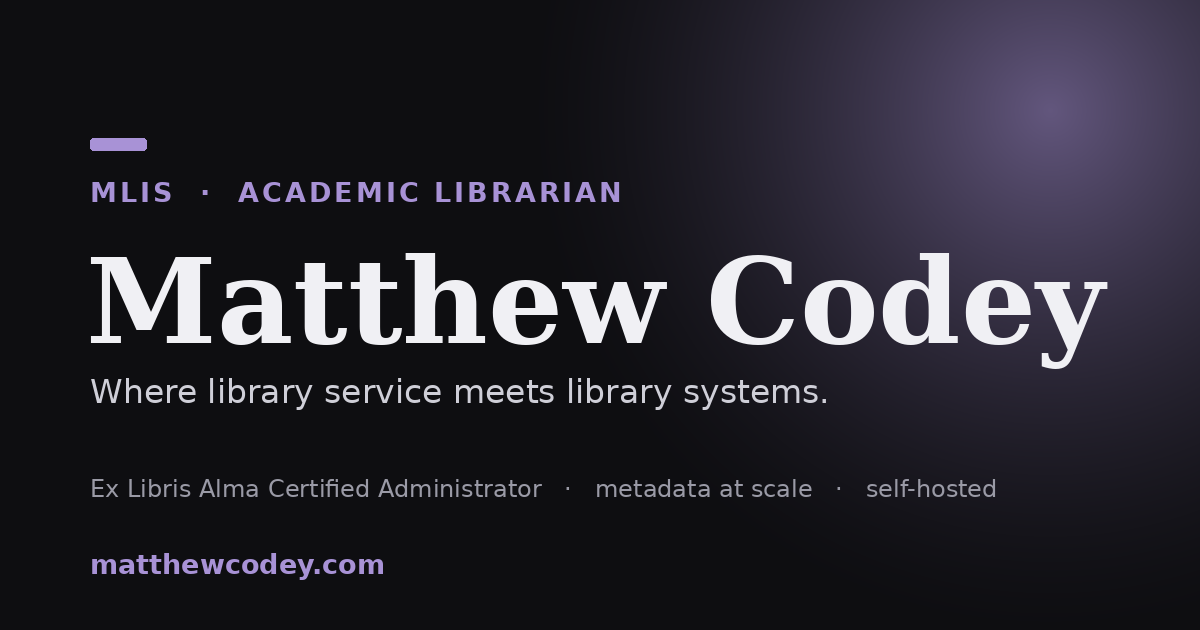
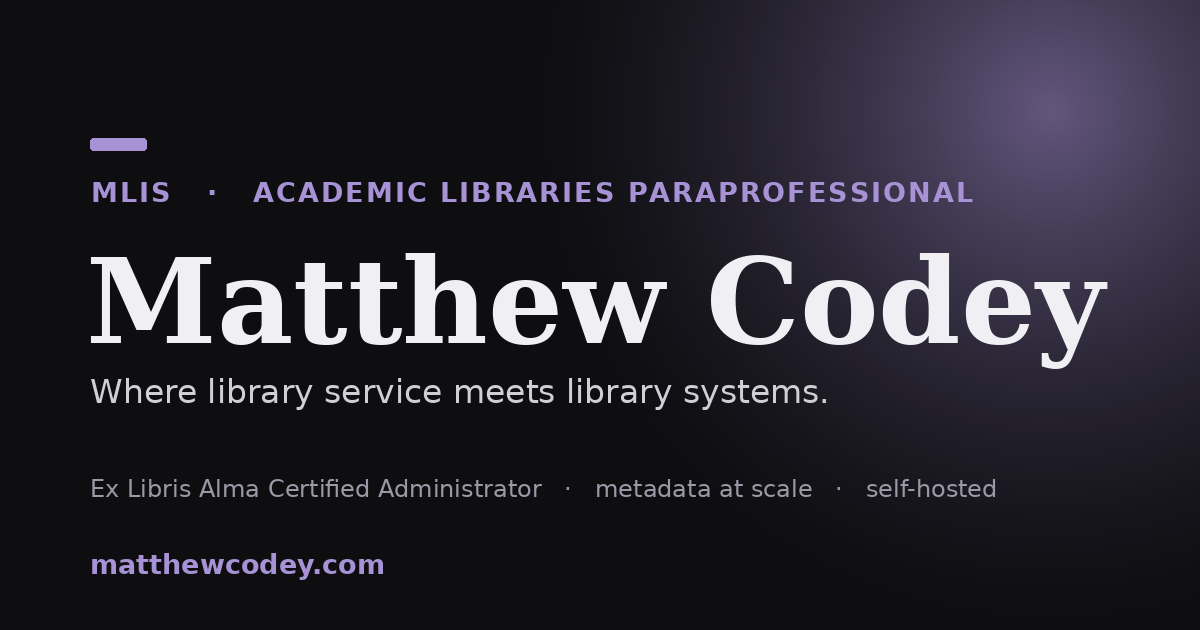
Describe Matthew as an academic libraries paraprofessional, since 2006
The site called him an academic librarian with fifteen-plus years. He is
an academic libraries paraprofessional (with an MLIS), in academic
libraries since 2006 as a student worker and full-time staff since 2007.

Updated everywhere the claim appeared: the homepage title, eyebrow,
lede, JSON-LD and "at a glance" cell (now "Since 2006"); the default
meta and social descriptions; the contact and resume descriptions; the
resume's header line and summary; the README; and two lines on the
poster page. The Open Graph image's title line is redrawn in the same
font, size, tracking and colour; the rest of the image is untouched.

The CV PDF still says "Academic Librarian" and "more than fifteen
years"; it needs re-exporting from its source document.

Claude-Session: https://claude.ai/code/session_01FdrsMmaTAM84MyhPcpEWEV

Changed region(s): [[0.4625, 0.2714, 0.8017, 0.3317], [0.185, 0.2714, 0.4317, 0.3317], [0.0617, 0.3016, 0.1542, 0.3317]]

diff --git a/templates/index.html b/templates/index.html
@@ -1,5 +1,5 @@
 {% extends "base.html" %}
-{% block fulltitle %}Matthew Codey — Academic Librarian{% endblock %}
+{% block fulltitle %}Matthew Codey — Academic Libraries Paraprofessional{% endblock %}
 {% block head %}
 <script type="application/ld+json">
 {
@@ -7,7 +7,7 @@
   "@type": "Person",
   "name": "Matthew Codey",
   "url": "https://matthewcodey.com/",
-  "description": "MLIS academic librarian working at the seam of library service and library systems.",
+  "description": "MLIS-holding academic libraries paraprofessional working at the seam of library service and library systems.",
   "worksFor": {"@type": "Organization", "name": "USC Libraries"},
   "sameAs": [
     "https://libraries.usc.edu/person/matthew-codey",
@@ -19,9 +19,9 @@
 {% block content %}
 <section class="hero">
   <div class="wrap">
-    <div class="eyebrow">MLIS · Academic Librarian</div>
+    <div class="eyebrow">MLIS · Academic Libraries Paraprofessional</div>
     <h1 class="big">Where library service<br>meets library systems.</h1>
-    <p class="lede">I'm an academic librarian with fifteen-plus years in university libraries, pairing <strong>hands-on library-systems expertise</strong> — Ex Libris Alma &amp; Primo, metadata at scale, discovery-service enhancement — with a user-centered approach to reference and instruction, and a working knowledge of the code underneath it all.</p>
+    <p class="lede">I'm an academic libraries paraprofessional with nearly twenty years in university libraries, pairing <strong>hands-on library-systems expertise</strong> — Ex Libris Alma &amp; Primo, metadata at scale, discovery-service enhancement — with a user-centered approach to reference and instruction, and a working knowledge of the code underneath it all.</p>
     <div class="cta-row">
       <a class="btn btn-primary" href="{{ url_for('projects') }}"><span>View Projects <span aria-hidden="true">→</span></span></a>
       <a class="btn btn-ghost" href="{{ url_for('resume') }}">Resume</a>
@@ -33,7 +33,7 @@
 <div class="glance">
   <div class="wrap">
     <div class="glance-grid">
-      <div class="glance-cell"><div class="glance-num">15+</div><div class="glance-lbl">Years in academic libraries</div></div>
+      <div class="glance-cell"><div class="glance-num">Since 2006</div><div class="glance-lbl">In academic libraries, student worker to full-time staff</div></div>
       <div class="glance-cell"><div class="glance-num">Alma</div><div class="glance-lbl">Ex Libris Certified Administrator</div></div>
       <div class="glance-cell"><div class="glance-num">MLIS</div><div class="glance-lbl">Web Programming &amp; Information Architecture</div></div>
     </div>

diff --git a/templates/base.html b/templates/base.html
@@ -3,7 +3,7 @@
 <head>
   <meta charset="UTF-8">
   <meta name="viewport" content="width=device-width, initial-scale=1">
-  <meta name="description" content="{{ page_description or "Matthew Codey — MLIS academic librarian working at the seam of library service and library systems." }}">
+  <meta name="description" content="{{ page_description or "Matthew Codey — MLIS-holding academic libraries paraprofessional working at the seam of library service and library systems." }}">
   <link rel="preconnect" href="https://fonts.googleapis.com">
   <link rel="preconnect" href="https://fonts.gstatic.com" crossorigin>
   <link href="https://fonts.googleapis.com/css2?family=Fraunces:opsz,wght@9..144,400;9..144,500;9..144,600&family=Inter:wght@400;500;600&display=swap" rel="stylesheet">
@@ -17,13 +17,13 @@
   <meta property="og:type" content="website">
   <meta property="og:site_name" content="Matthew Codey">
   <meta property="og:title" content="{{ self.fulltitle() }}">
-  <meta property="og:description" content="{{ page_description or "MLIS academic librarian working at the seam of library service and library systems." }}">
+  <meta property="og:description" content="{{ page_description or "MLIS-holding academic libraries paraprofessional working at the seam of library service and library systems." }}">
   <meta property="og:url" content="https://matthewcodey.com{{ request.path }}">
   {% block canonical %}<link rel="canonical" href="https://matthewcodey.com{{ request.path }}">{% endblock %}
   <meta property="og:image" content="https://matthewcodey.com{{ url_for('static', filename='og-image.png') }}">
   <meta name="twitter:card" content="summary_large_image">
   <meta name="twitter:title" content="{{ self.fulltitle() }}">
-  <meta name="twitter:description" content="{{ page_description or "MLIS academic librarian working at the seam of library service and library systems." }}">
+  <meta name="twitter:description" content="{{ page_description or "MLIS-holding academic libraries paraprofessional working at the seam of library service and library systems." }}">
   <meta name="twitter:image" content="https://matthewcodey.com{{ url_for('static', filename='og-image.png') }}">
 
   <title>{% block fulltitle %}{% block title %}Home{% endblock %} · Matthew Codey{% endblock %}</title>

diff --git a/templates/resume.html b/templates/resume.html
@@ -1,6 +1,6 @@
 {% extends "base.html" %}
 {% block title %}Resume{% endblock %}
-{% set page_description = "Resume of Matthew Codey, MLIS: more than fifteen years in academic libraries at USC and UC San Diego, and an Ex Libris Alma Certified Administrator." %}
+{% set page_description = "Resume of Matthew Codey, MLIS: nearly twenty years in academic libraries at USC and UC San Diego, and an Ex Libris Alma Certified Administrator." %}
 {% block content %}
 <section class="block">
   <div class="wrap">
@@ -8,14 +8,14 @@
       <div>
         <div class="kicker">Curriculum vitae</div>
         <h1 class="title">Matthew Codey</h1>
-        <div class="muted-line">MLIS · Academic Librarian · Los Angeles, CA</div>
+        <div class="muted-line">MLIS · Academic Libraries Paraprofessional · Los Angeles, CA</div>
       </div>
       <a class="btn btn-ghost" href="{{ url_for('static', filename='cv/Matthew_Codey_CV.pdf') }}" download><span>Download PDF <span aria-hidden="true">↓</span></span></a>
     </div>
 
     <div class="resume-sec">
       <h2>Professional summary</h2>
-      <p class="muted">MLIS professional with more than fifteen years in academic libraries, pairing hands-on library-systems expertise with a user-centered, equity-minded approach to reference and instruction. Ex Libris Alma Certified Administrator experienced in large-scale metadata management, discovery-service enhancement, and staff supervision, with a record of collaborative service and governance leadership.</p>
+      <p class="muted">Academic libraries paraprofessional, with an MLIS and nearly twenty years in academic libraries, pairing hands-on library-systems expertise with a user-centered, equity-minded approach to reference and instruction. Ex Libris Alma Certified Administrator experienced in large-scale metadata management, discovery-service enhancement, and staff supervision, with a record of collaborative service and governance leadership.</p>
     </div>
 
     <div class="resume-sec">

diff --git a/templates/poster.html b/templates/poster.html
@@ -87,7 +87,7 @@
 
     <article class="panel">
       <h3>Built with an AI coding assistant; runs without one</h3>
-      <p>The result is the <strong>MARC Holdings Workbench</strong>, a Python application. It uses no AI when it runs: no model, no network calls, no API key, and nothing leaves the machine. The same file converts the same way every time. The AI was in how it was built: a librarian working with an AI coding assistant, release by release.</p>
+      <p>The result is the <strong>MARC Holdings Workbench</strong>, a Python application. It uses no AI when it runs: no model, no network calls, no API key, and nothing leaves the machine. The same file converts the same way every time. The AI was in how it was built: a library paraprofessional, not a developer, working with an AI coding assistant, release by release.</p>
     </article>
 
     <article class="panel">
@@ -171,7 +171,7 @@
 
     <article class="panel">
       <h3>The human in the loop</h3>
-      <p>The AI writes the code; the librarian decides what "correct" means. Two bugs from October were found by the cataloguer, not by the tests:</p>
+      <p>The AI writes the code; the cataloguer decides what "correct" means. Two bugs from October were found by the cataloguer, not by the tests:</p>
       <ul class="bugs">
         <li>In <code>v. 58 Suppl. (Sep 2003)</code>, confirming the pattern it arrived with wrote the volume and date and dropped "Suppl." without a word. Found in a demo dry run; fixed in 0.32.0.</li>
         <li><code>34 no 3, 4 (Summer, Autumn 1990)</code>, a list of runs, ignored the caption confirmed for it. Found in testing; fixed in 0.34.0.</li>

diff --git a/templates/contact.html b/templates/contact.html
@@ -1,6 +1,6 @@
 {% extends "base.html" %}
 {% block title %}Contact{% endblock %}
-{% set page_description = "Contact Matthew Codey, an academic librarian in Los Angeles: email for work inquiries or collaboration, or browse code on GitHub." %}
+{% set page_description = "Contact Matthew Codey, an academic libraries paraprofessional in Los Angeles: email for work inquiries or collaboration, or browse code on GitHub." %}
 {% block content %}
 <section class="block">
   <div class="wrap">

diff --git a/README.md b/README.md
@@ -2,7 +2,7 @@
 
 My personal website — a small Flask application I built, version-control here, and
 self-host on my own Linux server. It doubles as an honest demonstration of the
-web-development and systems side of my work as an academic librarian.
+web-development and systems side of my work in academic libraries.
 
 **Live:** https://matthewcodey.com
 
